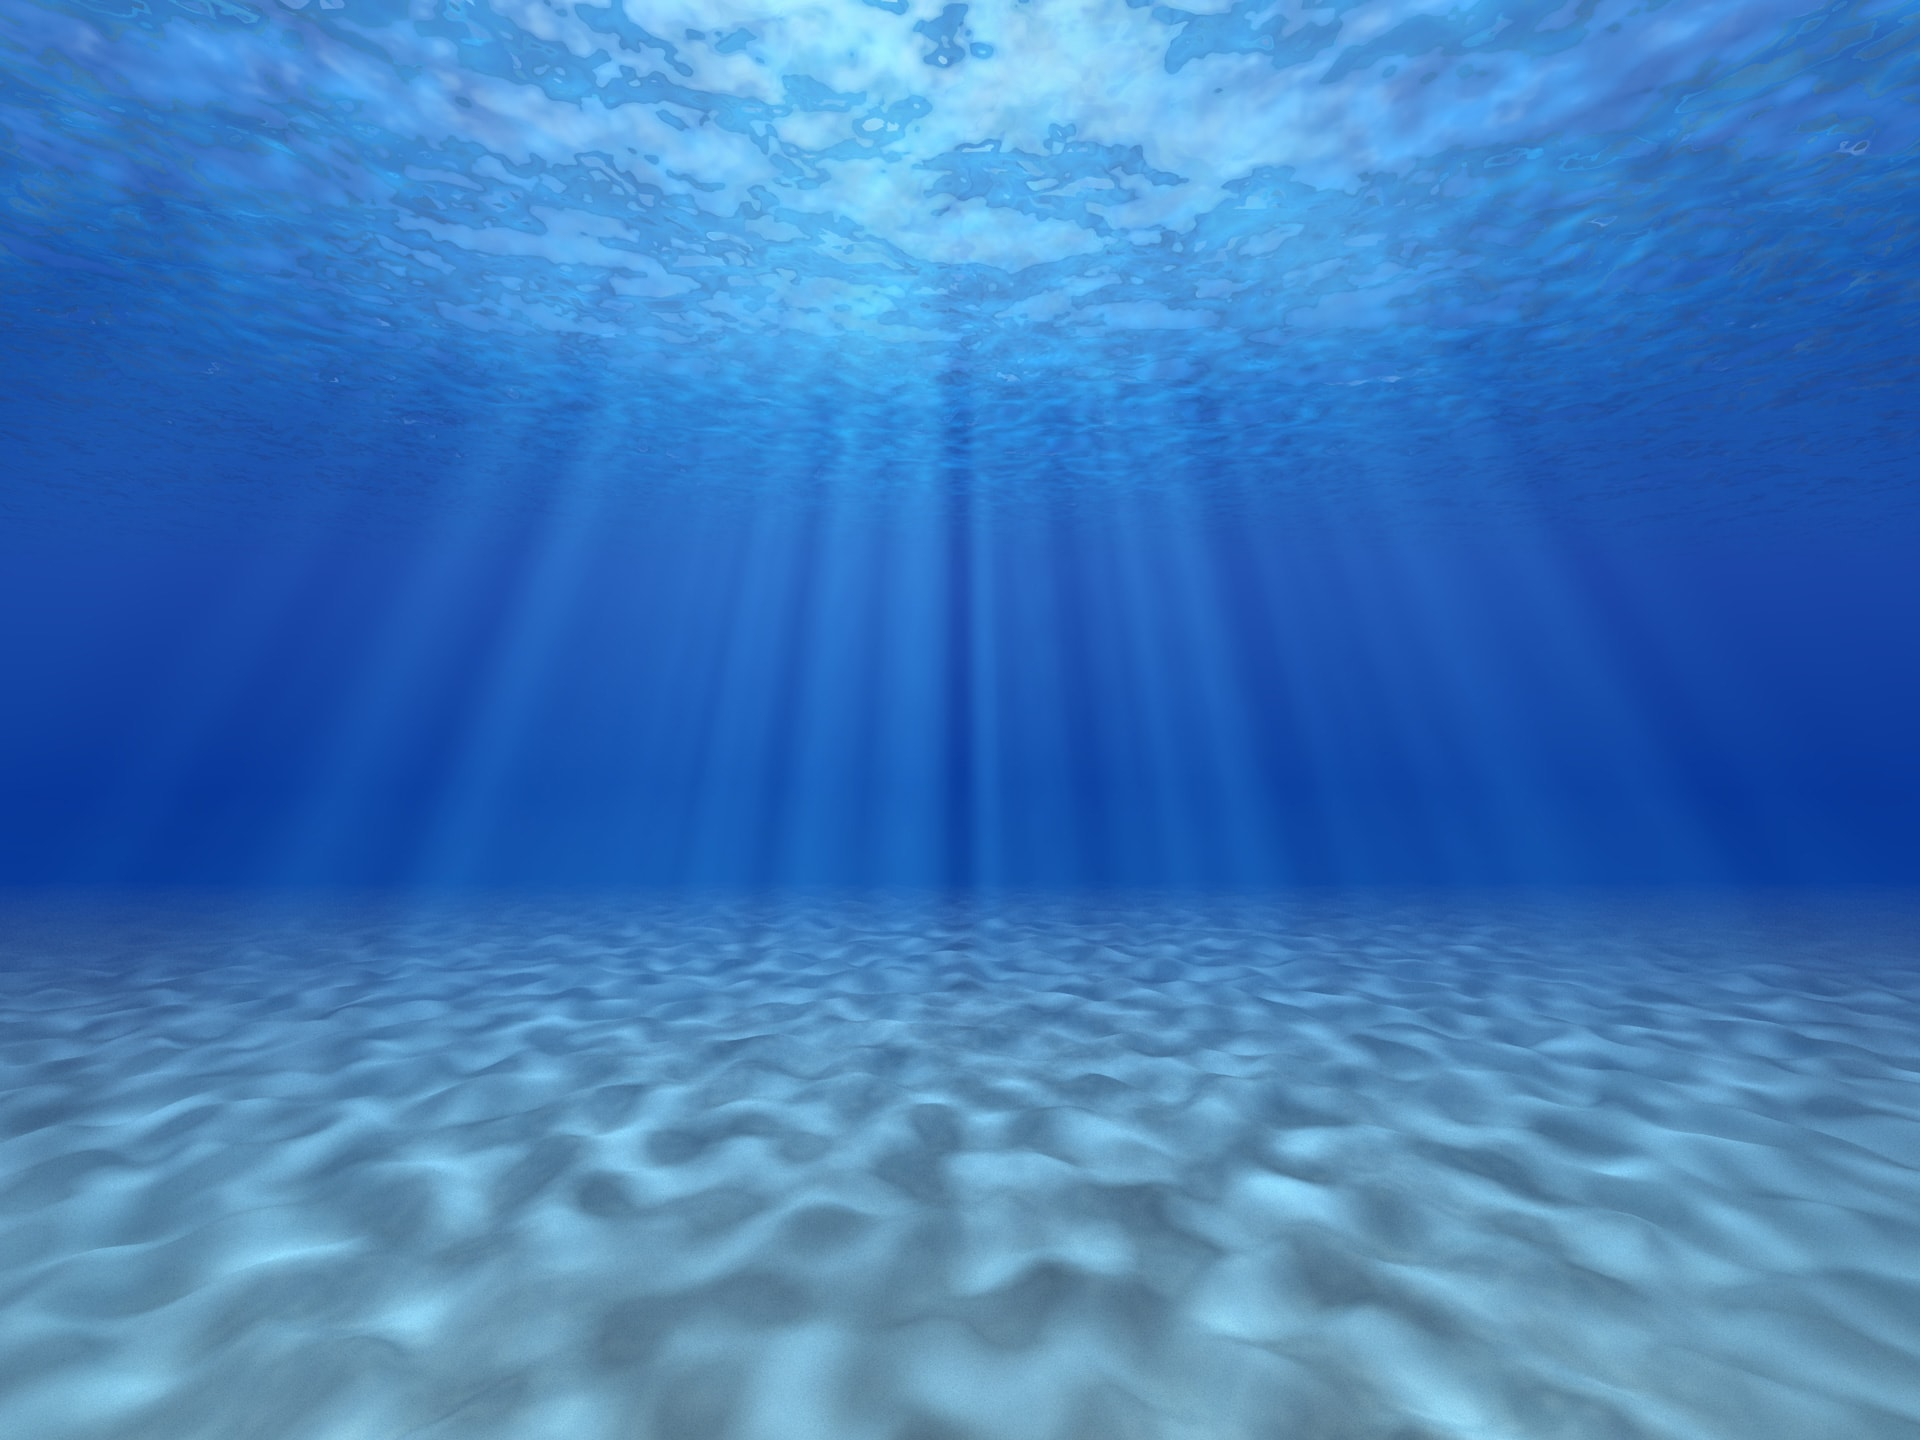
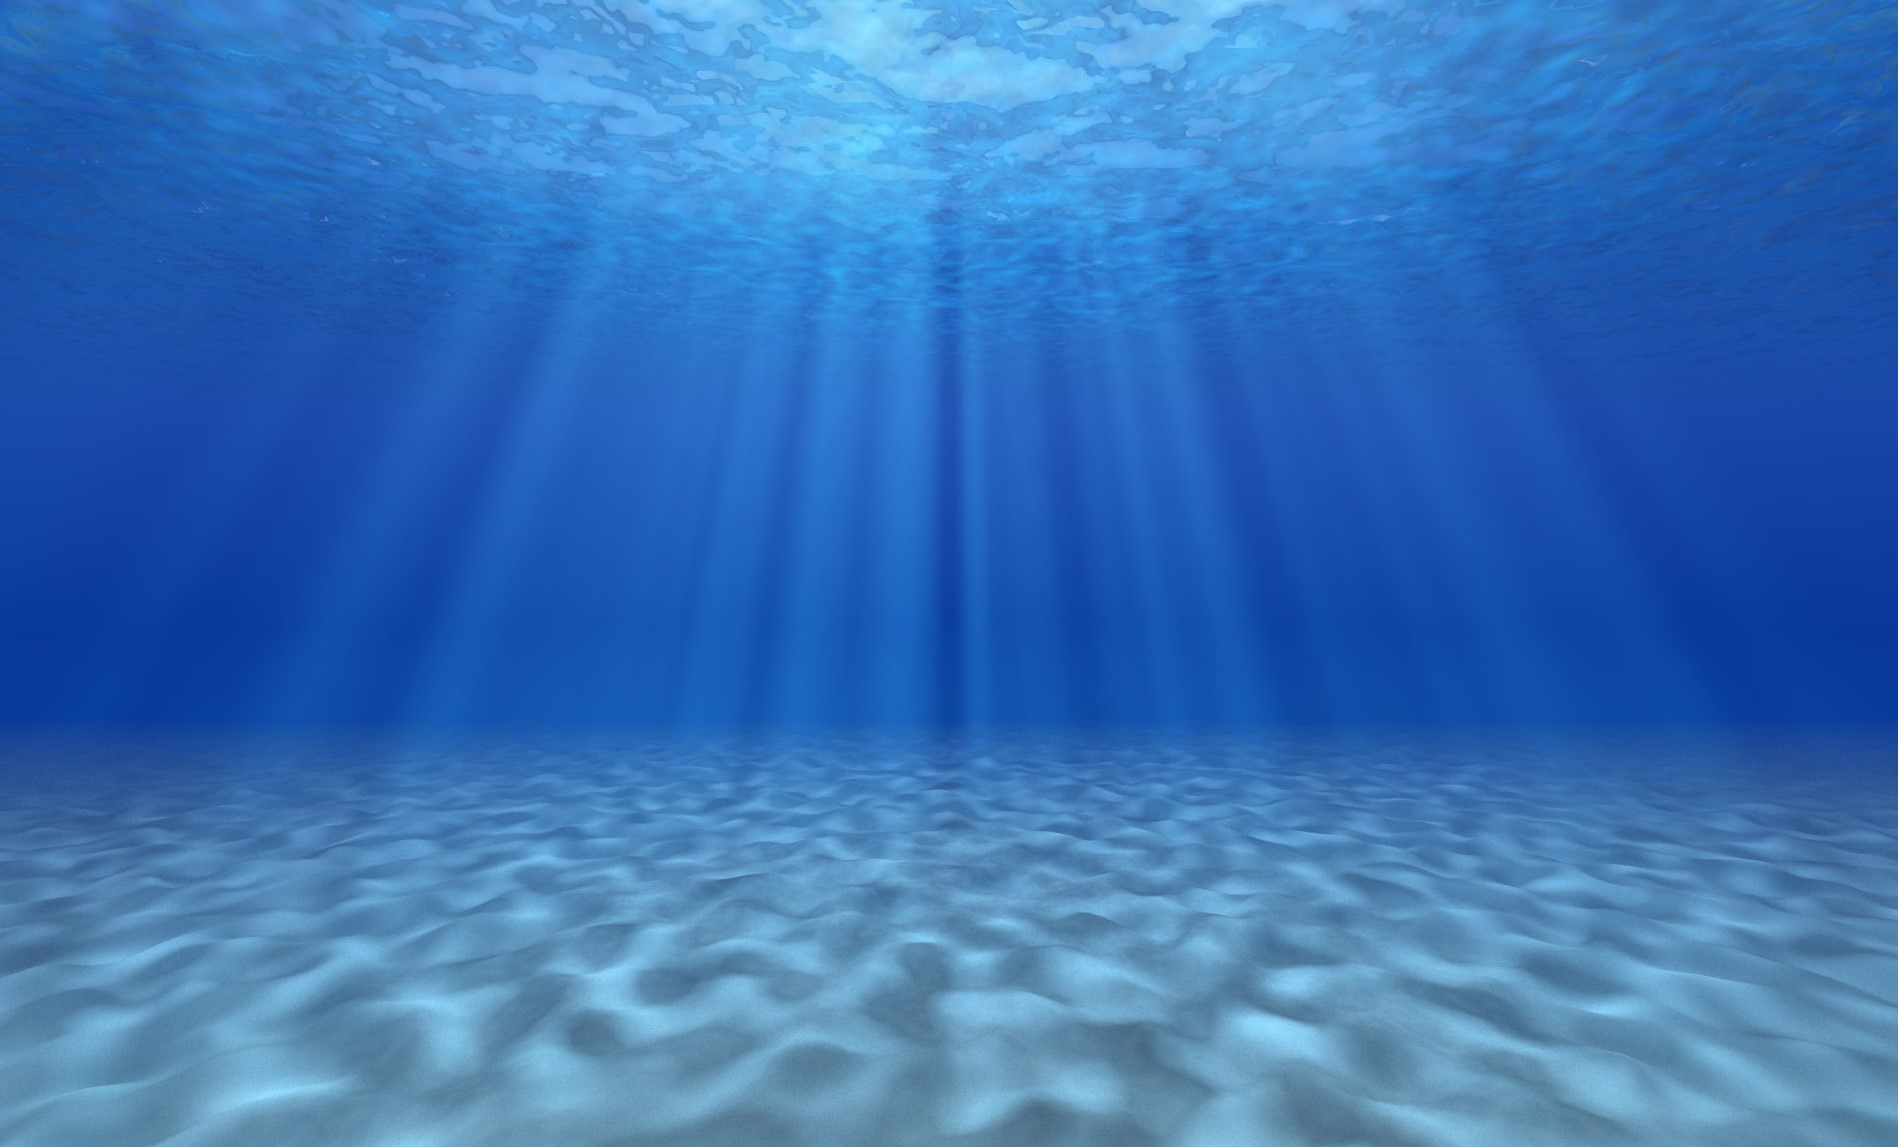
resized ocean image

diff --git a/PythonPals/main.py b/PythonPals/main.py
@@ -662,7 +662,7 @@ def drawBackground(playerGroup, enemyGroup, width, height, level, correctOrWrong
         bg = pygame.transform.rotozoom(bg, 0, theScreen.width / 1400)
     else:
         bg = pygame.image.load("ocean.jpg")
-        bg = pygame.transform.rotozoom(bg, 0, theScreen.width / 1900)
+        bg = pygame.transform.rotozoom(bg, 0, theScreen.width / 1850)
     screen.blit(bg,(0,0))
     if correctOrWrong != "":
         if correctOrWrong == "Correct":
